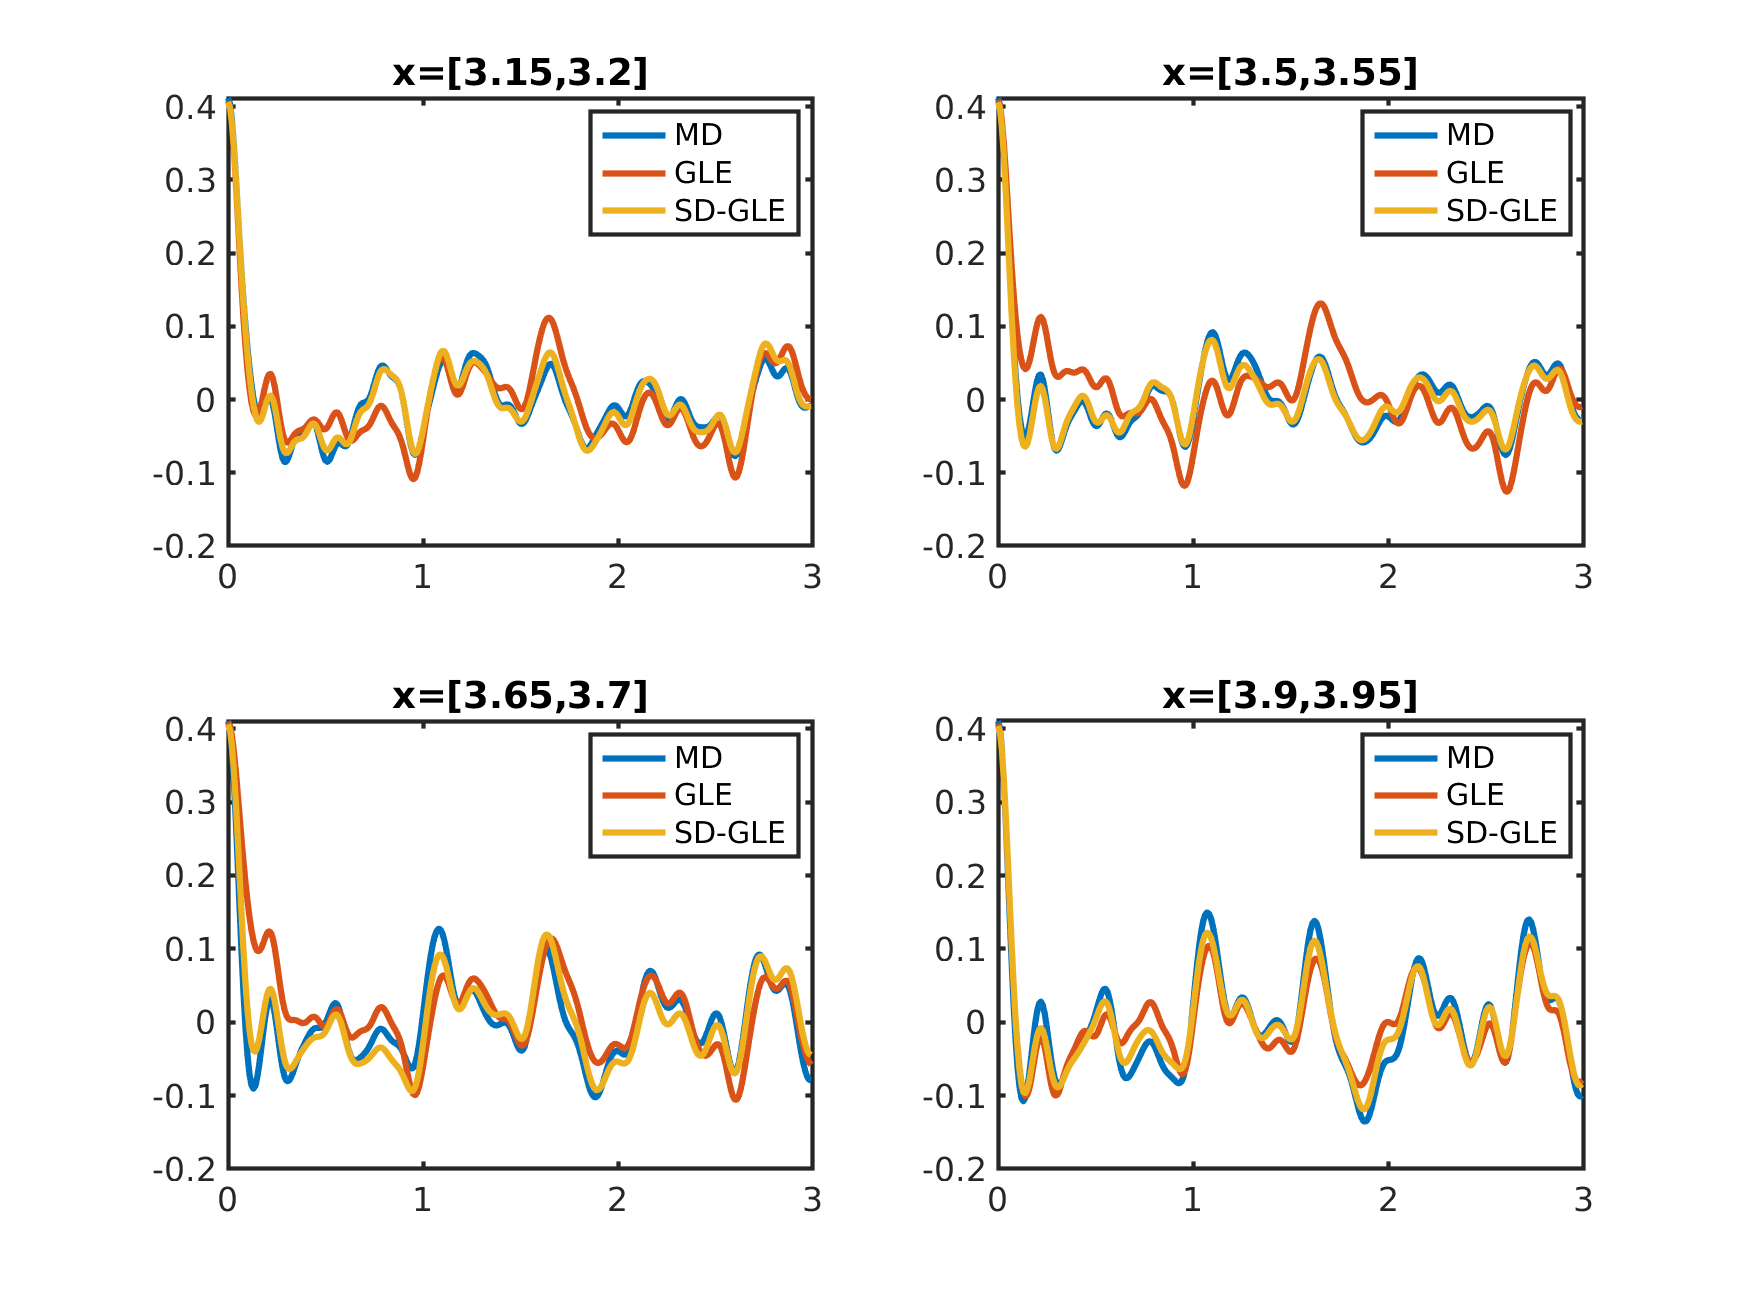
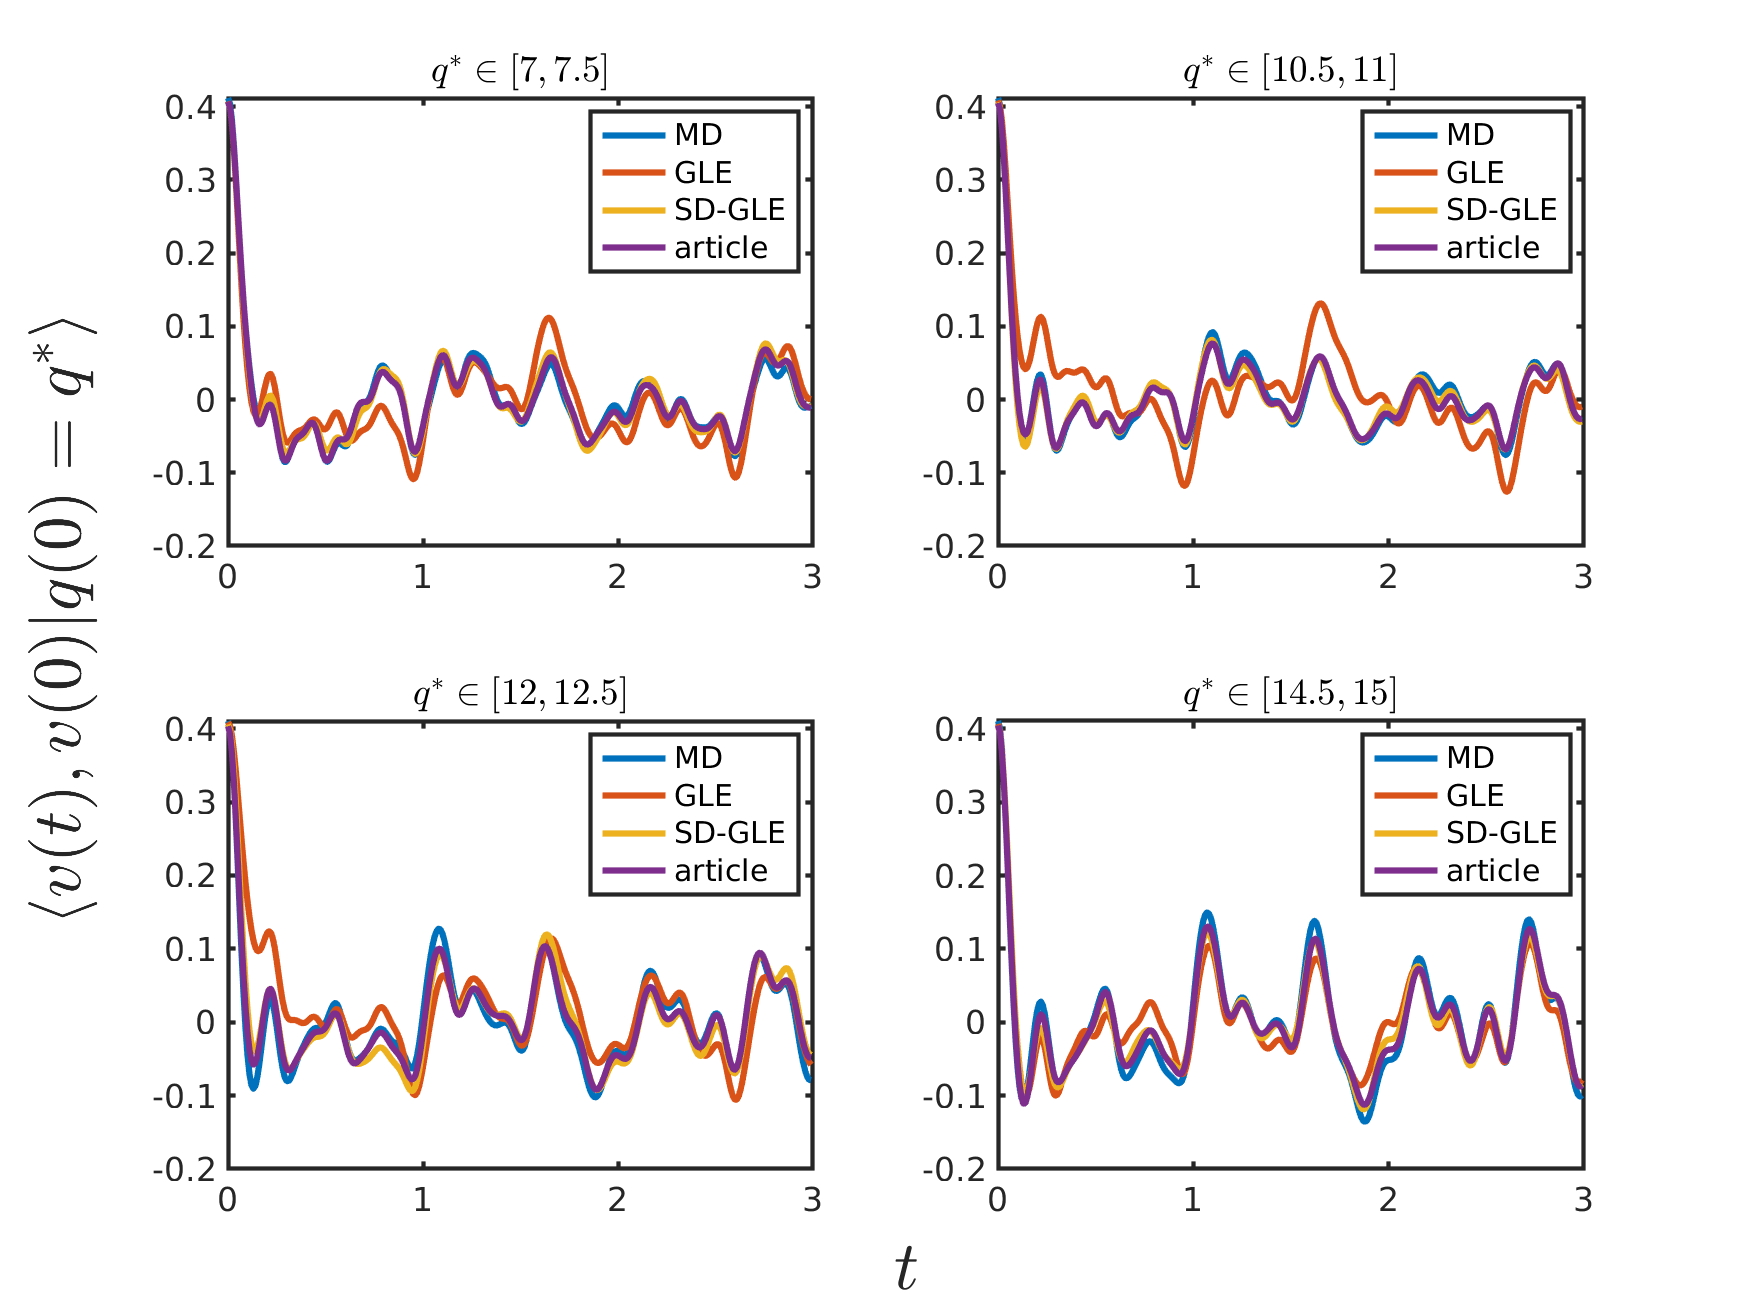
update

diff --git a/case_bimodal/main.m b/case_bimodal/main.m
@@ -39,6 +39,7 @@ step6_GLE_corr(name,save_name,loop_num,sample_per_loop)
 corr1=load('data/corr.mat');
 corr2=load('data/corr_GLE.mat');
 corr3=load('data/corr_ML_4D.mat');
+corr4=load('data/corr_ML_4D_std.mat');
 PDF=load('data/PDF.mat');
 
 close all
@@ -46,7 +47,9 @@ figure(1);hold on;box on;
 set(gcf, 'DefaultLineLineWidth', 3.0,'DefaultLineMarkerSize',12);
 plot(PDF.ff_x,PDF.pdf)
 xlim([2.8,4.1])
-xlabel('q');ylabel('P(q)')
+title('Probability Distribution','Interpreter','latex')
+xlabel('$q$','Interpreter','latex')
+ylabel('$\rho(q)$','Interpreter','latex')
 set(gca,'FontSize',30,'LineWidth',2.0)
 saveas(gcf,'fig/PDF.png')
 
@@ -54,7 +57,9 @@ figure(2);hold on;box on;
 set(gcf, 'DefaultLineLineWidth', 3.0,'DefaultLineMarkerSize',12);
 plot(PDF.ff_x,-log(PDF.pdf))
 xlim([2.8,4.1])
-xlabel('q');ylabel('U(q)/k_BT')
+title('Free Energy','Interpreter','latex')
+xlabel('$q$','Interpreter','latex');
+ylabel('$U(q)/k_BT$','Interpreter','latex')
 set(gca,'FontSize',30,'LineWidth',2.0)
 saveas(gcf,'fig/FreeEnergy.png')
 
@@ -66,37 +71,50 @@ plot(corr2.corr_t,corr2.(corr_ver),'Displayname','GLE')
 plot(corr3.corr_t,corr3.(corr_ver),'Displayname','SD-GLE')
 xlim([0,3])
 legend
+title('Velocity Correlation','Interpreter','latex')
+xlabel('$t$','Interpreter','latex');
+ylabel('$\langle v(t),v(0) \rangle$','Interpreter','latex')
 set(gca,'FontSize',30,'LineWidth',2.0)
 saveas(gcf,'fig/corr_vv.png')
 
-figure(4);hold on;box on;
+fig=figure(4);hold on;box on;
 set(gcf, 'DefaultLineLineWidth', 3.0,'DefaultLineMarkerSize',12);
 corr_ver='xcorr_vv';
 i=1;
 for bin=[12,19,22,27]
     subplot(2,2,i);i=i+1;
     hold on;box on;
-    title(['x=[',num2str(corr1.xcorr_x(bin)),',',num2str(corr1.xcorr_x(bin+1)),']'])
+    title(['$q^* \in [',num2str(hx_x(bin)),',',num2str(hx_x(bin)+hx_x(2)-hx_x(1)),']$'],'Interpreter','latex')
     set(gca,'ColorOrderIndex',1)
     plot(corr1.xcorr_t,corr1.(corr_ver)(bin,:),'Displayname','MD')
     plot(corr2.xcorr_t,corr2.(corr_ver)(bin,:),'Displayname','GLE')
     plot(corr3.xcorr_t,corr3.(corr_ver)(bin,:),'Displayname','SD-GLE')
+    plot(corr4.xcorr_t,corr4.(corr_ver)(bin,:),'Displayname','article')
     set(gca,'FontSize',16,'LineWidth',2.0)
     legend
 end
+axs=axes(fig,'visible','off'); 
+axs.Title.Visible='on';
+axs.XLabel.Visible='on';
+axs.YLabel.Visible='on';
+ylabel(axs,'$\langle v(t),v(0) |q(0)=q^* \rangle$','Interpreter','latex');
+xlabel(axs,'$t$','Interpreter','latex');
+set(axs,'FontSize',30,'LineWidth',2.0)
 saveas(gcf,'fig/xcorr_vv.png')
 
 
 figure(5);hold on;box on;
 set(gcf, 'DefaultLineLineWidth', 3.0,'DefaultLineMarkerSize',12);
-t_sample = 80:80:8000;bd=80;
+t_sample = 10:10:8000;bd=80;
 plot(t_sample,ksdensity(corr1.t_A_B,t_sample,"Bandwidth",bd),'Displayname','MD')
 plot(t_sample,ksdensity(corr2.t_A_B,t_sample,"Bandwidth",bd),'Displayname','GLE')
 plot(t_sample,ksdensity(corr3.t_A_B,t_sample,"Bandwidth",bd),'Displayname','SD-GLE')
-set(gca, 'YScale', 'log')
+plot(t_sample,ksdensity(corr4.t_A_B,t_sample,"Bandwidth",bd),'Displayname','article')
+set(gca, 'YScale', 'log', 'XScale', 'log')
 ylim([10^-6,10^-2])
-xlim([80,4000])
+xlim([10,4000])
 legend
+xlabel('time period','Interpreter','latex');ylabel('distribution','Interpreter','latex')
 set(gca,'FontSize',30,'LineWidth',2.0)
 saveas(gcf,'fig/trates.png')
 

diff --git a/case_unimodal/main.m b/case_unimodal/main.m
@@ -126,7 +126,6 @@ plot(tail_x,ksdensity(corr3.tail,tail_x,'Bandwidth',bd),'Displayname','SD-GLE-1D
 plot(tail_x,ksdensity(corr4.tail,tail_x,'Bandwidth',bd),'Displayname','SD-GLE-2D')
 xlim([0,5])
 set(gca, 'YScale', 'log', 'XScale', 'log')
-set(gca, 'YScale', 'log')
 legend('Location','Best')
 xlabel('time period','Interpreter','latex');ylabel('distribution','Interpreter','latex')
 set(gca,'FontSize',30,'LineWidth',2.0)

diff --git a/README.md b/README.md
@@ -46,12 +46,14 @@ h(q)= \frac{\langle \dot{v}_0-f(q_0),\dot{v}_0 |q_0=q \rangle}{\langle v_0,v_0 \
 10. The visualization is at the end of the 'main.m'. 
 
 ### Result
+The over probability distribution and free energy. This is a simple case without energy barrier.
 
 <p align="center">
 <img src="case_unimodal/fig/PDF.png" alt="drawing" width="49%" />
+<img src="case_unimodal/fig/FreeEnergy.png" alt="drawing" width="49%" />
 </p>
 
-The following two figures shows $\langle v(t),v(0) \rangle$ and $\langle v(t),v(0) |q(0)=q^* \rangle$
+The following two figures shows velocity correlation $\langle v(t),v(0) \rangle$ and state-dependent velocity correlation $\langle v(t),v(0) |q(0)=q^* \rangle$. 'MD' represent the full model, 'GLE' represent the standard GLE, 'SD-GLE-1D' represent our model with the 1D $h(q)$ formulation below, 'SD-GLE-1D' represent our model with the 2D $h(q)$ formulation in article.
 
 <p align="center">
   <img src="case_unimodal/fig/corr_vv.png" alt="drawing" width="49%" />
@@ -72,7 +74,7 @@ Consider the molecule benzyl bromide in an aqueous environment. The full system 
 
 ### Codes
 
-The example is given in folder 'case_bimodal', and 'main.m' provides how to drive these codes.
+The example is given in folder 'case_bimodal', and 'main.m' provides how to drive these codes. The argument is liter than it used in article. The basis for $h(q)$ is 66 in article but 8 here, the number of three-point correlation functions is 65 in article but 26 here. This makes it more efficiency but less accuracy. The model in the article is given as 'MD_ND_4_std_lite.mat'.
 
 1. Compute the probability distribution function by 'step1_PDF.m', which will also get the conservative force ('data/PDF.mat').
 
@@ -80,7 +82,7 @@ The example is given in folder 'case_bimodal', and 'main.m' provides how to driv
 
 3. Compute three point correlation functions for ND state-dependent kernel by 'step3_training_set.m' and 'step4_collect_training_set.m' ('data/dx_0.2_w_301.mat').
 
-4. Train the model with 'train.py' and 'get_model.py' ('MD_ND_4.mat', 'MD_ND_4_std.mat' is the model used in article, 'MD_ND_4_lite.mat' and 'MD_ND_4_std_lite.mat' is the corresponding lite version due to the size limitation)
+4. Train the model with 'train.py' and 'get_model.py' ('MD_ND_4.mat', 'MD_ND_4_std.mat' for model in article. 'MD_ND_4_lite.mat' and 'MD_ND_4_std_lite.mat' is the corresponding lite version due to the size limitation)
 
 5. Simulate the standard GLE model and state-dependent GLE model by 'step5_std_GLE.m', 'step5_hx_GLE.m'. 'step5_hx_GLE_fast_conv.m' do the same thing as 'step5_hx_GLE.m' but evalute convolution by fast convolution algorithm. 
 
@@ -96,7 +98,7 @@ The left figure shows the distruction $P(q)$ and the right shows the free energy
 <img src="case_bimodal/fig/FreeEnergy.png" alt="drawing" width="49%" />
 </p>
 
-The left shows $\langle v(t),v(0) \rangle$ and right shows $\langle v(t),v(0) |x(0)=x^* \rangle$
+The following two figures shows velocity correlation $\langle v(t),v(0) \rangle$ and state-dependent velocity correlation $\langle v(t),v(0) |q(0)=q^* \rangle$. 'MD' represent the full model, 'GLE' represent the standard GLE, 'SD-GLE' represent our model with the given training set, 'article' represent the model used in article.
 
 <p align="center">
 <img src="case_bimodal/fig/corr_vv.png" alt="drawing" width="49%" />
